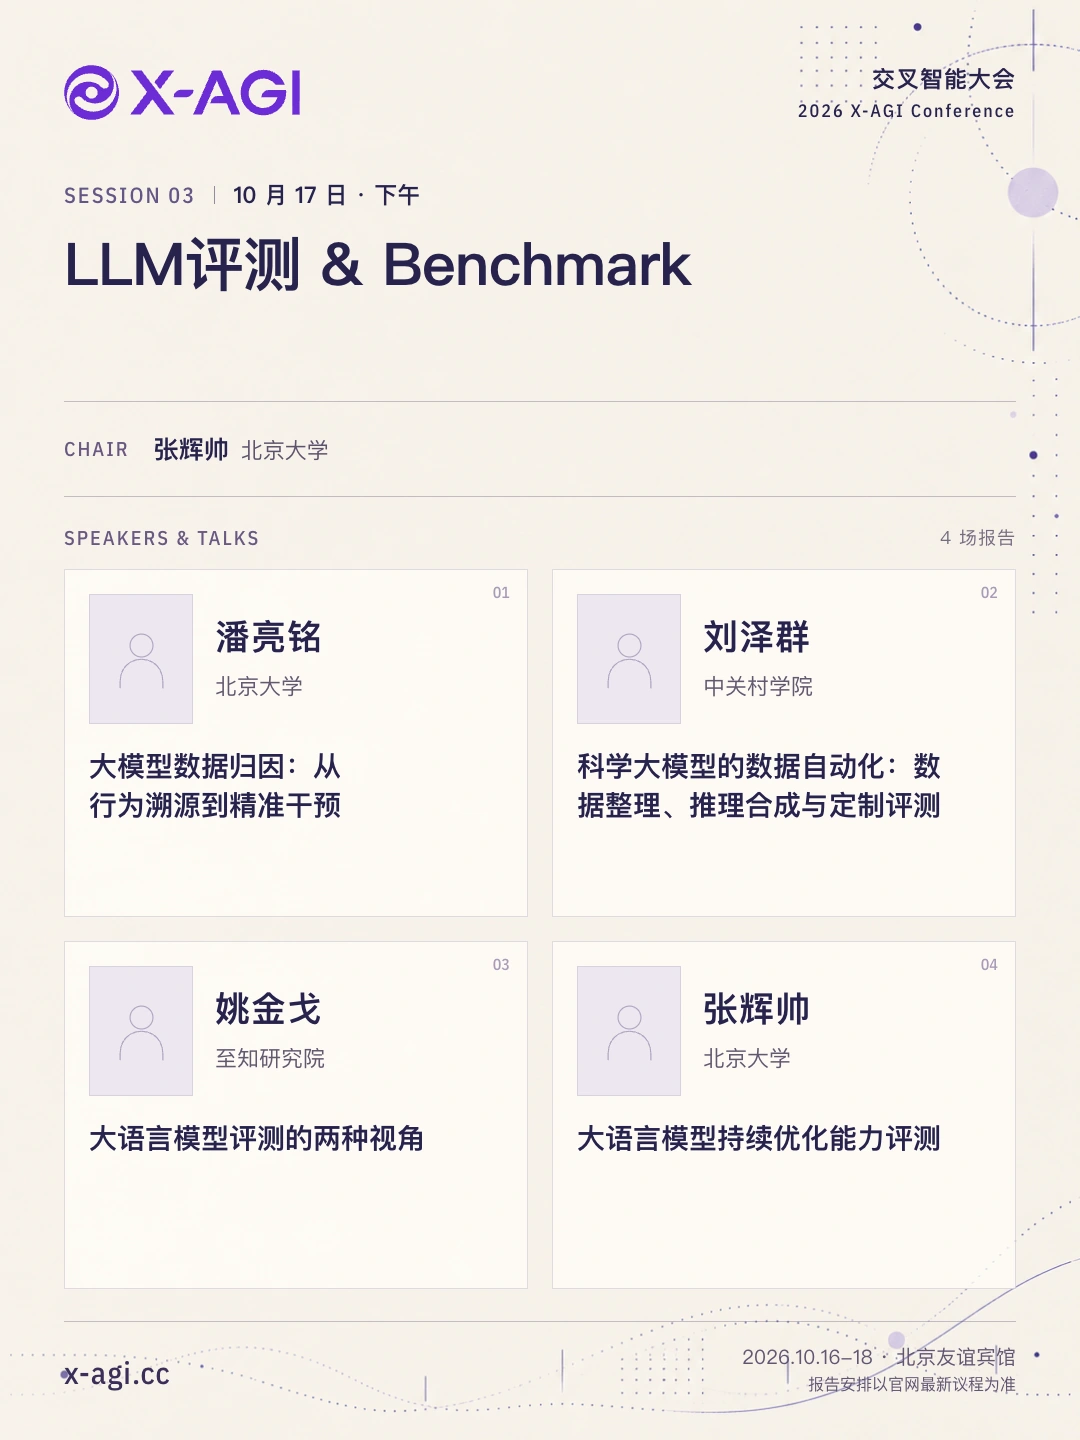
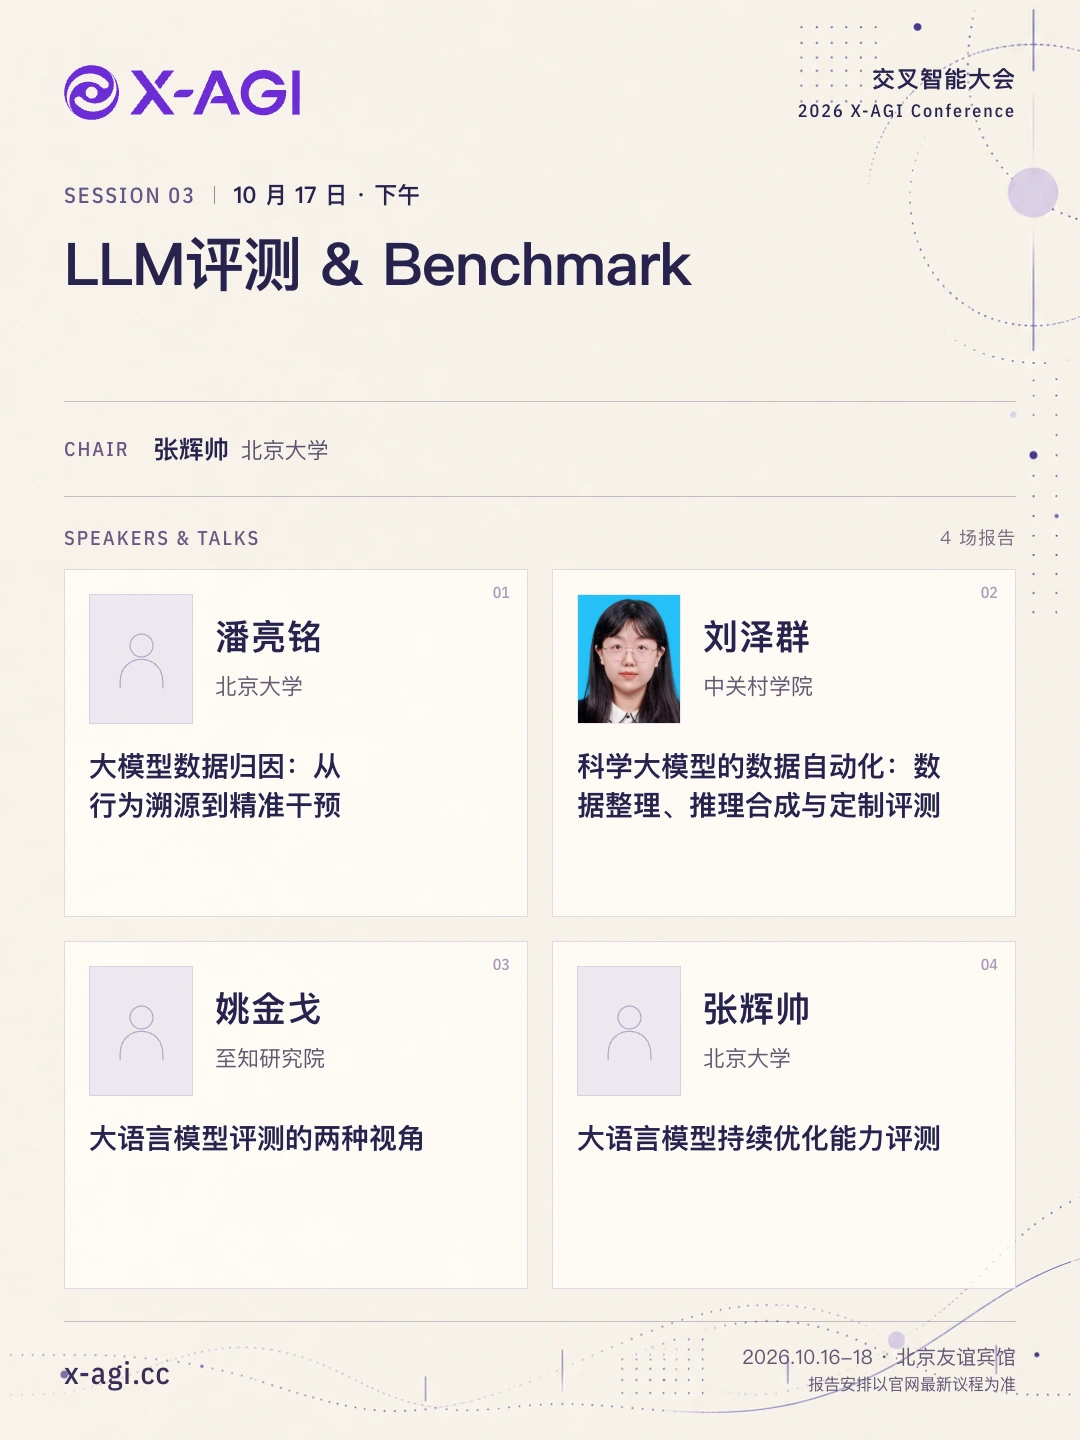
Add Liu Zequn profile and portrait

Changed region(s): [[0.5194, 0.4062, 0.6417, 0.5]]

diff --git a/src/data/conference2026-people.confirmed.ts b/src/data/conference2026-people.confirmed.ts
@@ -1,8 +1,21 @@
 import type { Conference2026PersonSourceRecord } from './conference2026-people.generated.ts';
 
-// Organizer-confirmed profiles and biography updates, 2026-09-18 and 2026-10-01.
+// Organizer-confirmed profiles and biography updates through 2026-10-06.
 // Keep this supplied copy separate from the attendee workbook snapshot.
 export const conference2026ConfirmedPeople: readonly Conference2026PersonSourceRecord[] = [
+  {
+    id: 'liu-zequn',
+    name: '刘泽群',
+    aliases: [],
+    roles: ['speaker'],
+    affiliation: '中关村学院',
+    department: 'AI4Science',
+    bio: '刘泽群博士，现为北京中关村学院研究员，主要研究方向为大模型、AI4Science。分别于2019年和2024年在北京大学计算机学院获得学士和博士学位，在加入北京中关村学院前，曾在微软亚洲研究院担任研究员。刘泽群博士致力于科学大模型相关的研究，取得了一系列算法和应用上的突破，在Nature Machine Intelligence等顶级期刊和ACL、EMNLP、NAACL等人工智能顶级会议上发表论文十余篇，作为主要贡献者研发的MolXPT、NatureLM等科学大模型受到行业内广泛关注和认可。',
+    talkTitle: '科学大模型的数据自动化：数据整理、推理合成与定制评测',
+    abstract: '以大语言模型为代表的基础模型正在深刻重塑科学研究范式，在分子设计、医学诊断等领域展现出加速科学发现的巨大潜力。然而，科学大模型的发展在数据层面仍面临多重挑战：原始数据分散异构，推理过程缺乏显式记录，评测需求因任务而异。本报告围绕科学大模型“数据准备 - 推理学习 - 能力验证”的全生命周期，介绍我们在数据自动化方面的研究工作。在数据整理方面，我们提出多智能体协同框架 AIDE，实现科学数据检索、质量筛选与结构化组织的全流程自动化，将分散异构的原始数据转化为训练就绪的高质量资源。在推理合成方面，我们提出 DESRO，基于实验变量变化与结果差异反演潜在推理过程，并以分子优化为例实现可解释推理链的大规模合成。在定制评测方面，我们提出 SciCustom，以科学本体为语义骨架，将科学语料组织为可复用的细粒度知识单元，进而依据用户需求自动构建面向特定科研场景的评测基准。上述工作推动科学数据构建由依赖人工走向自动化，为科学大模型的持续进化提供数据支撑。',
+    hasSubmittedPortrait: true,
+    sourceOrder: -1,
+  },
   {
     id: 'liu-ziyin',
     name: '刘子寅',
@@ -43,9 +56,10 @@ export const conference2026ConfirmedBios: ReadonlyMap<string, string> = new Map(
   ['qiu-zihan', '邱子涵本科毕业于清华大学姚班，现就职于 Qwen 预训练团队，专注于大模型架构与训练策略研究，基于模型机制提高训练稳定性和性能上限。已发表十余篇论文，其中一作论文荣获 NeurIPS 2025 最佳论文奖和 NAACL 2024 杰出论文奖。作为核心成员参与 Qwen2.5、Qwen3、Qwen3-Next、Qwen3.5、Qwen3.8-Flash-Next 等系列模型的研发，Google Scholar 引用量逾 2 万次。'],
 ]);
 
-// Portraits supplied directly by the organizer on 2026-09-19, 2026-09-29 and 2026-10-01.
+// Portraits supplied directly by the organizer through 2026-10-06.
 // Hu Tianyang's runtime image now uses his September 29 Speaker resubmission.
 export const conference2026ConfirmedPortraits: ReadonlyMap<string, string> = new Map([
+  ['liu-zequn', '/2026/people/liu-zequn-portrait.webp'],
   ['liu-ziyin', '/2026/people/liu-ziyin-portrait.webp'],
   ['hu-tianyang', '/2026/people/hu-tianyang-portrait.webp'],
   ['chen-siming', '/2026/people/chen-siming-portrait.webp'],

diff --git a/src/data/home-speakers.test.ts b/src/data/home-speakers.test.ts
@@ -16,7 +16,7 @@ describe('homepage speaker lineup', () => {
     for (const speaker of homeSpeakers) {
       assert.equal(speaker.portraitSrc, conference2026PersonForName(speaker.name)?.portraitSrc);
     }
-    assert.equal(homeSpeakers.filter((speaker) => !speaker.portraitSrc).length, 8);
+    assert.equal(homeSpeakers.filter((speaker) => !speaker.portraitSrc).length, 7);
   });
 
   it('places missing portraits last, preserves order within both groups and keeps dual-role speaker links', () => {
@@ -49,7 +49,7 @@ describe('homepage speaker lineup', () => {
 
   it('uses confirmed schedule information when no person profile has been submitted', () => {
     const missingProfiles = homeSpeakers.filter((speaker) => !conference2026PersonForName(speaker.name));
-    assert.equal(missingProfiles.length, 5);
+    assert.equal(missingProfiles.length, 4);
     for (const speaker of missingProfiles) {
       const sessionIndex = conference2026ProgramSessions.findIndex((session) => [...session.speakers, ...session.chairs].some((person) => person.name === speaker.name));
       const session = conference2026ProgramSessions[sessionIndex];

diff --git a/src/data/portrait-framing.test.ts b/src/data/portrait-framing.test.ts
@@ -9,7 +9,7 @@ const nonHumanPortraits = new Set(['hu-yiwen', 'chen-huanran']);
 describe('reviewed portrait framing', () => {
   it('frames every human portrait without stretching the source aspect ratio', async () => {
     const people = conference2026People.filter((person) => person.portraitSrc && !nonHumanPortraits.has(person.id));
-    assert.equal(people.length, 52);
+    assert.equal(people.length, 53);
     for (const person of people) {
       const style = portraitStyle(person.id);
       assert.equal(style.position, 'absolute', person.id);

diff --git a/src/data/portrait-framing.ts b/src/data/portrait-framing.ts
@@ -9,6 +9,7 @@ type PortraitCrop = {
   background?: string;
 };
 const circularPortraitCrops: Readonly<Record<string, PortraitCrop>> = {
+  'liu-zequn': { width: 2217, height: 2956, x: 0, y: 270, size: 2217 },
   'liu-ziyin': { width: 256, height: 318, x: 0, y: 24, size: 256 },
   'liu-jun': { width: 418, height: 520, x: 0, y: 38, size: 418 },
   'sun-maosong': { width: 302, height: 384, x: 0, y: 33, size: 302 },
